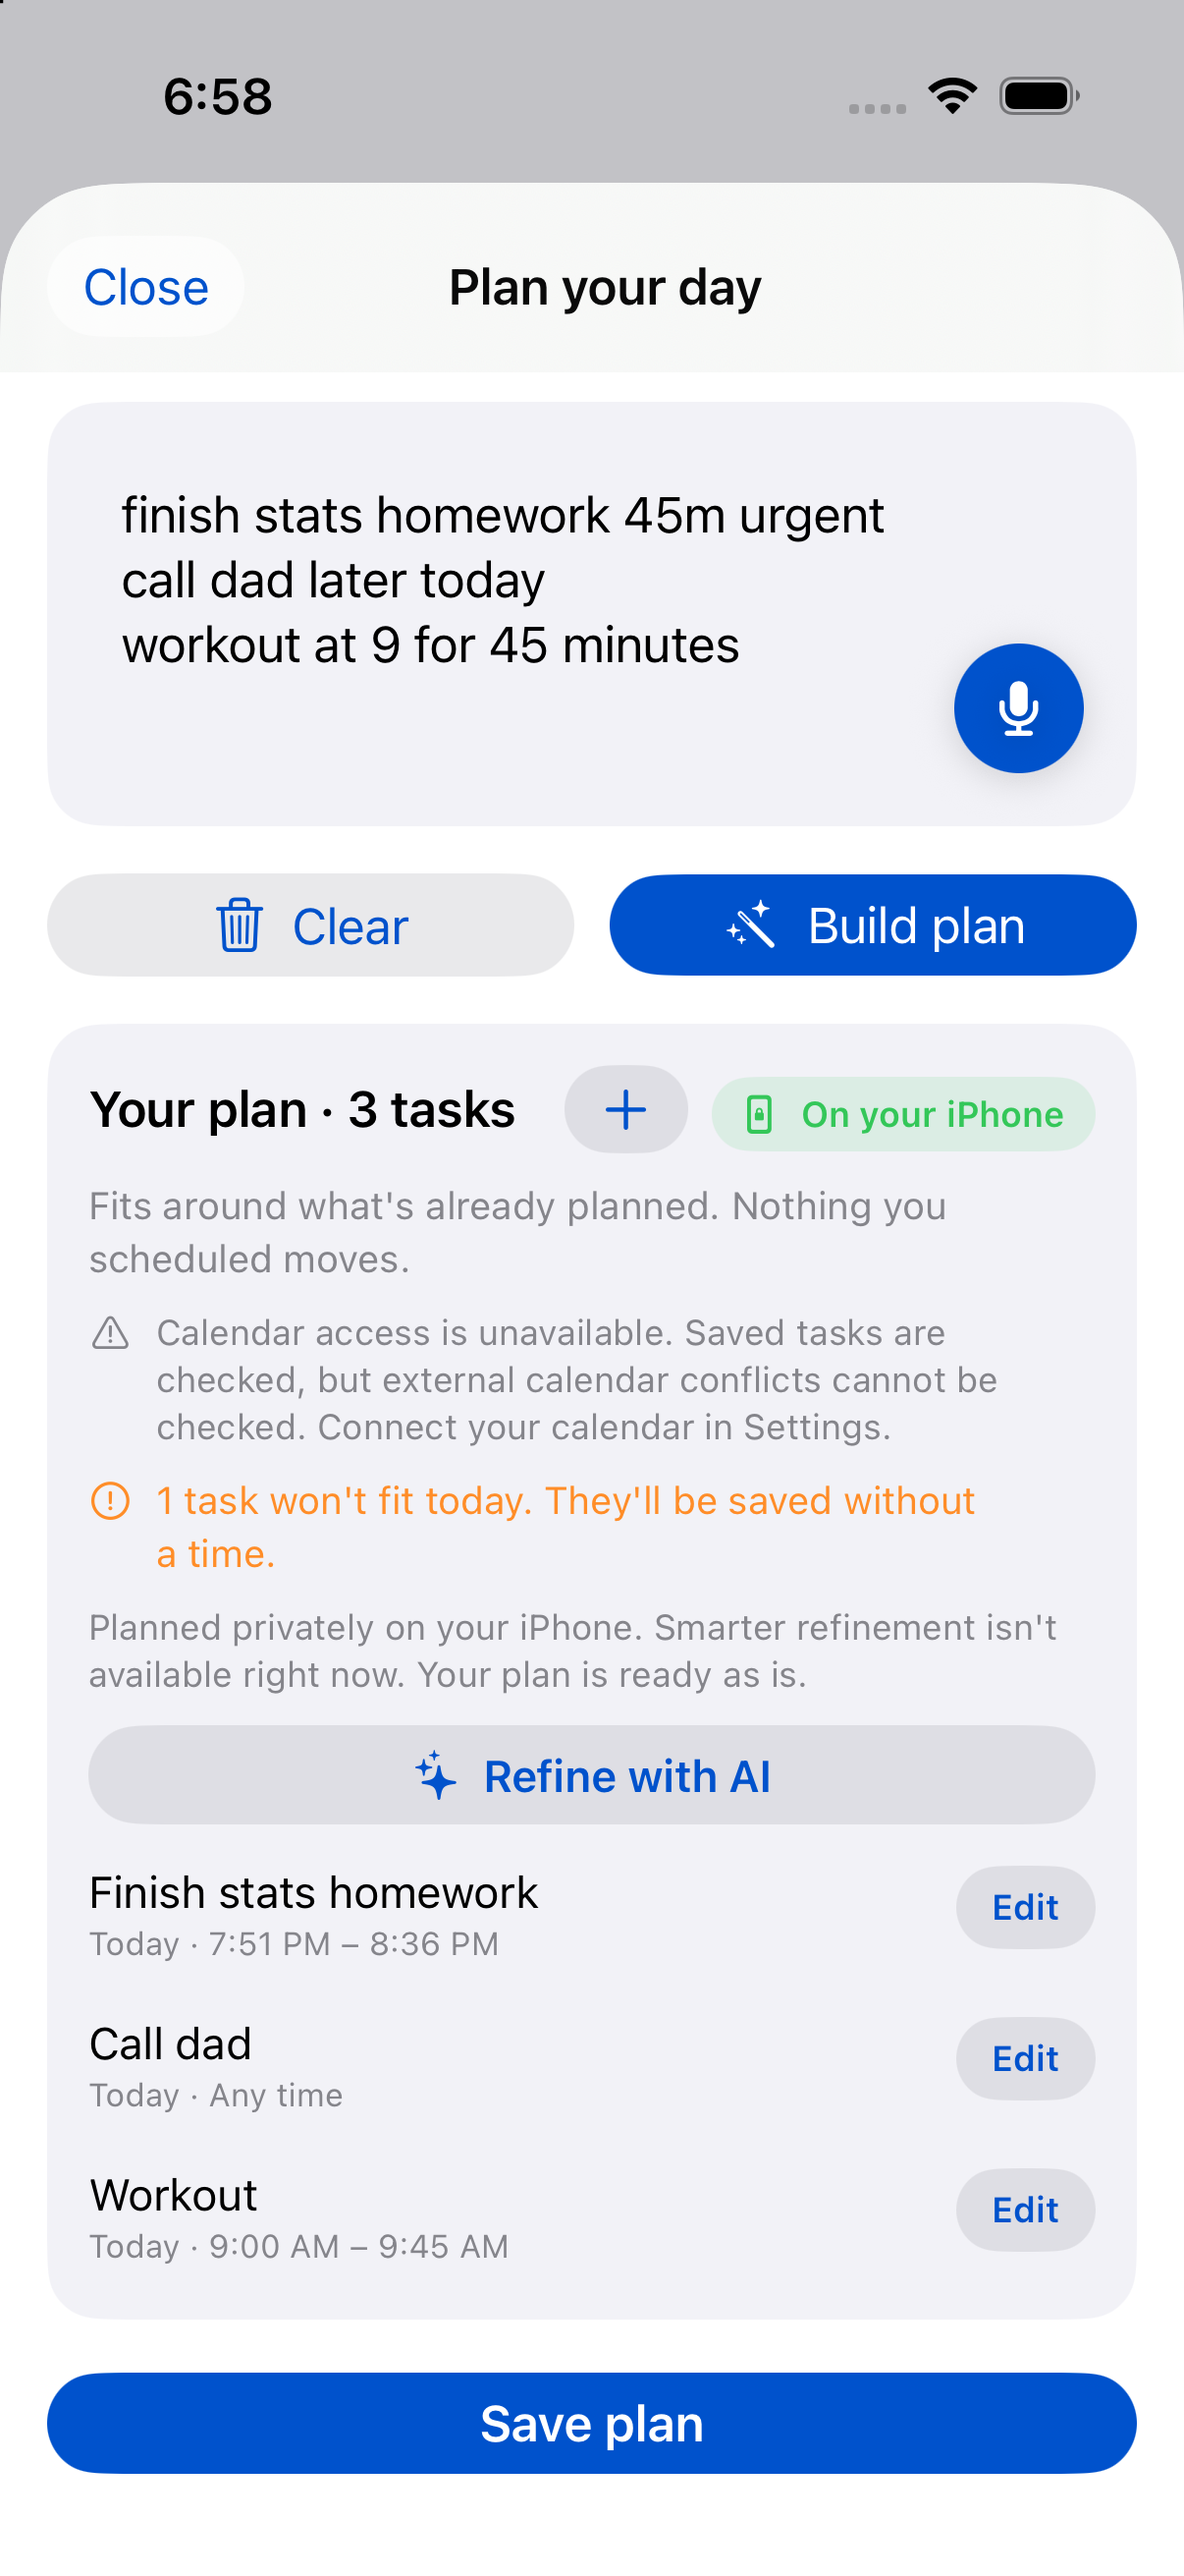
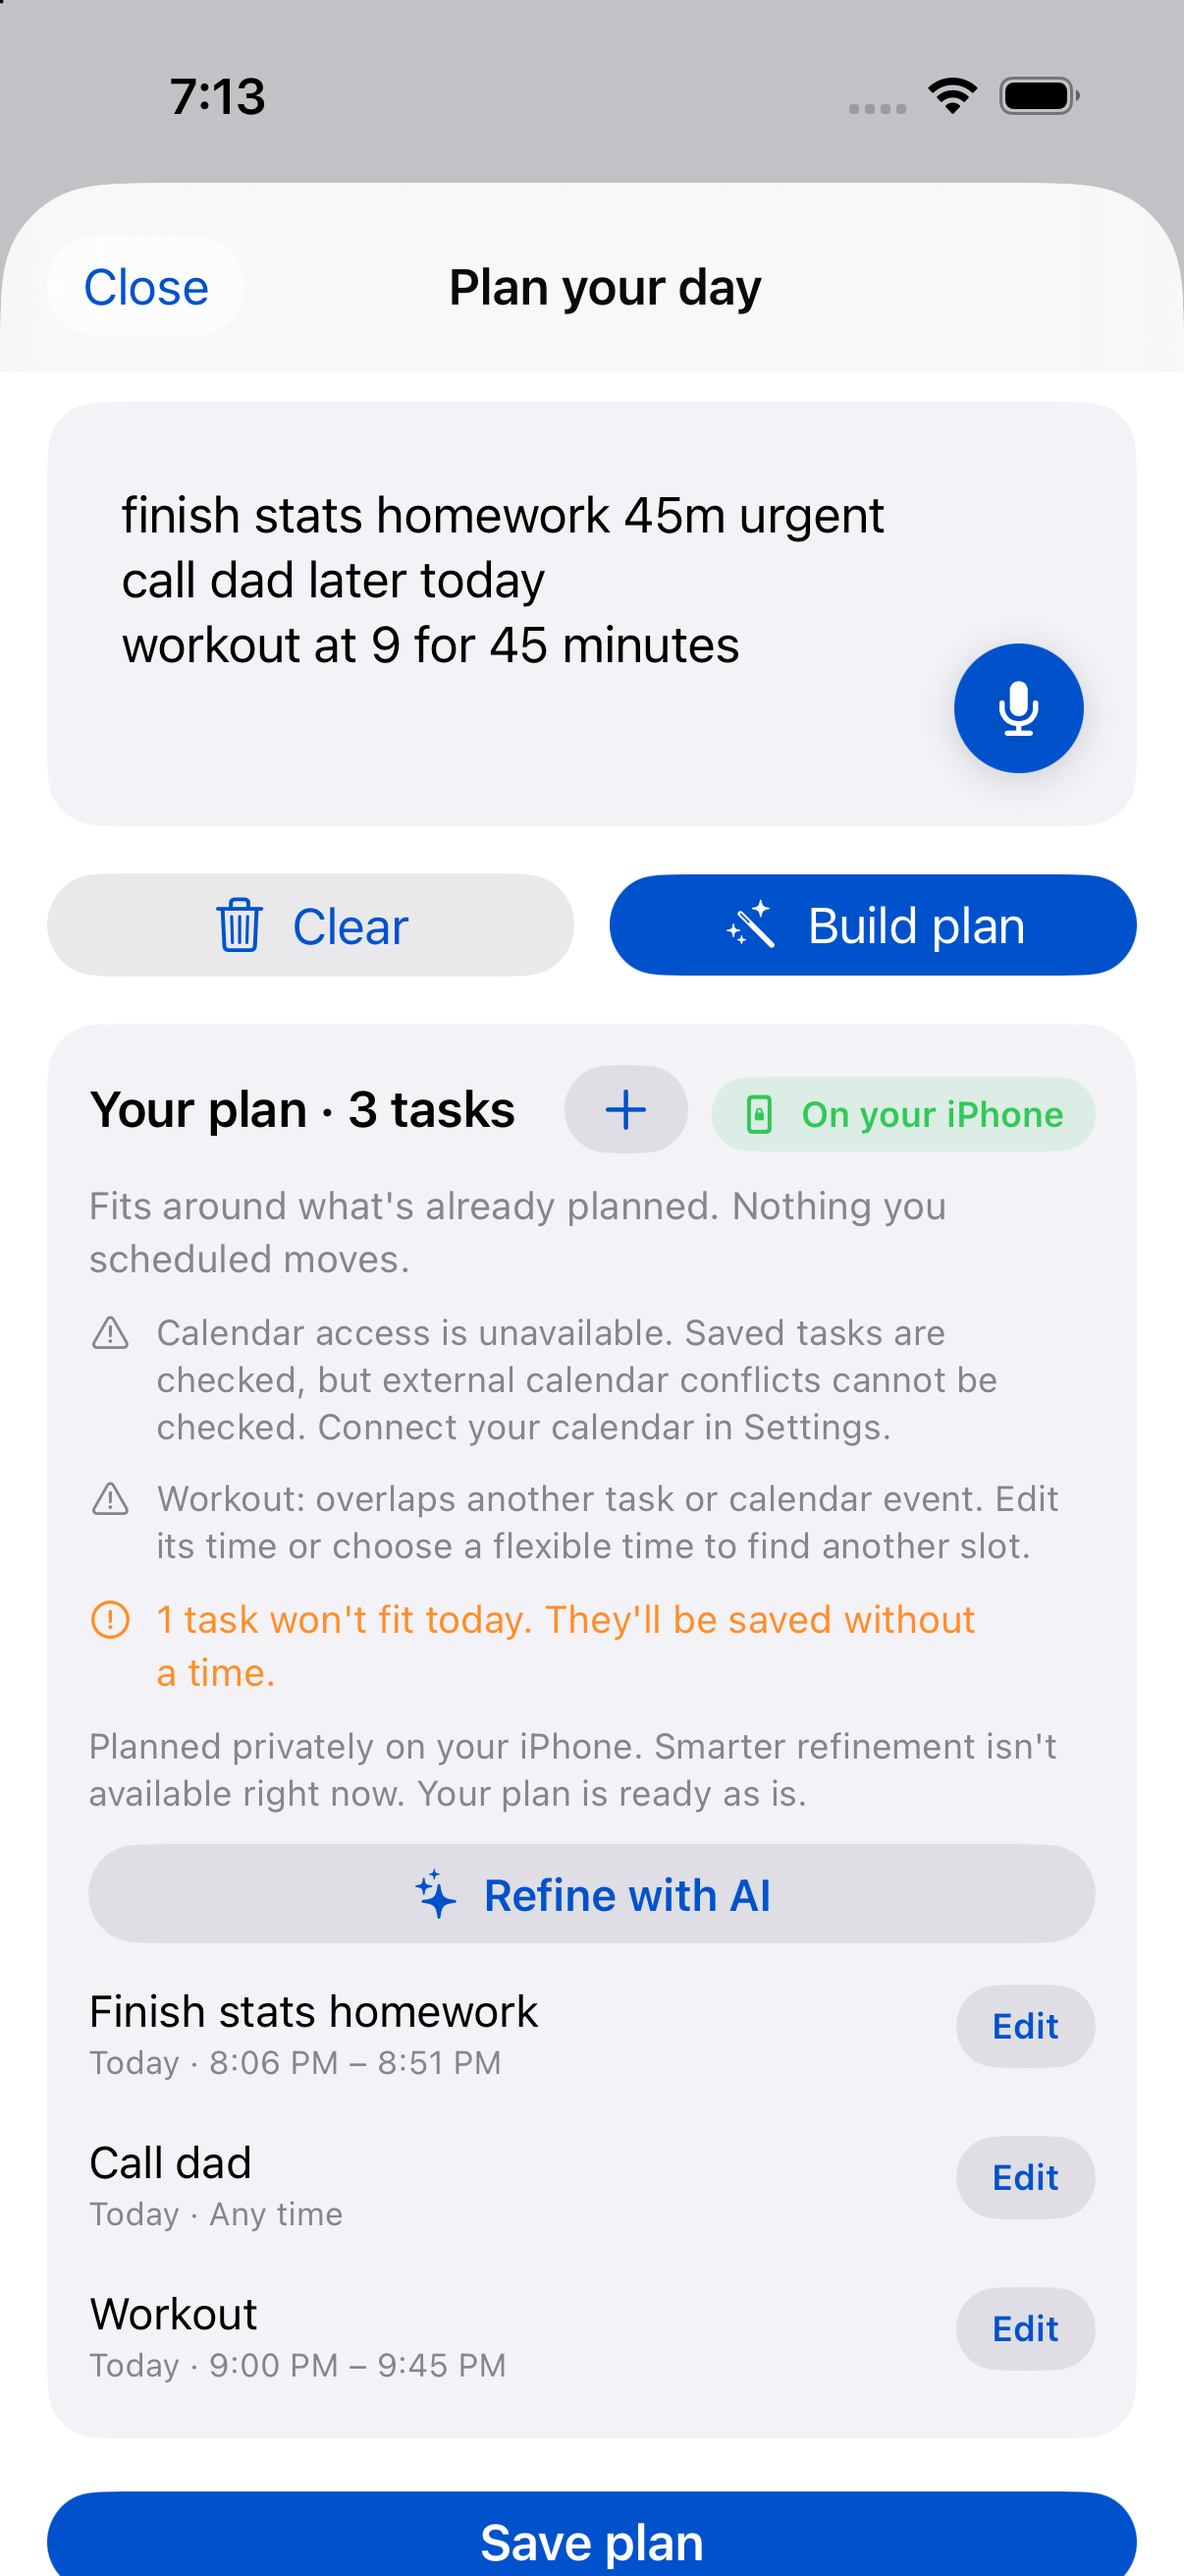
fix: bare hours like "at 9" no longer land in the past
With several tasks in one dump, resolveHour picked AM/PM without knowing
the time, so "workout at 9" typed at 7 PM became 9 AM, already past.
When nothing in the text says morning or evening and the task is for
today, it now picks the next upcoming occurrence. Explicit am/pm, time
of day words, other days, and the single-task ambiguity guard are
unchanged.

diff --git a/SchedAI/OfflineNLP.swift b/SchedAI/OfflineNLP.swift
@@ -624,7 +624,9 @@ struct OfflineNLP {
                 ampm: ap,
                 context: working,
                 previousTaskStart: previousTaskStart,
-                globalContext: globalContext
+                globalContext: globalContext,
+                referenceDate: referenceDate,
+                baseDay: baseDay
             )
             start = buildDate(hour24: hour24, minute: m)
             explicitTime = true
@@ -636,7 +638,9 @@ struct OfflineNLP {
                 ampm: nil,
                 context: working,
                 previousTaskStart: previousTaskStart,
-                globalContext: globalContext
+                globalContext: globalContext,
+                referenceDate: referenceDate,
+                baseDay: baseDay
             )
             start = buildDate(hour24: hour24, minute: m)
             explicitTime = true
@@ -659,7 +663,9 @@ struct OfflineNLP {
                 ampm: ap,
                 context: working,
                 previousTaskStart: previousTaskStart,
-                globalContext: globalContext
+                globalContext: globalContext,
+                referenceDate: referenceDate,
+                baseDay: baseDay
             )
             start = buildDate(hour24: hour24, minute: m)
             explicitTime = true
@@ -673,7 +679,9 @@ struct OfflineNLP {
                 ampm: ap,
                 context: working,
                 previousTaskStart: previousTaskStart,
-                globalContext: globalContext
+                globalContext: globalContext,
+                referenceDate: referenceDate,
+                baseDay: baseDay
             )
             start = buildDate(hour24: hour24, minute: m)
             explicitTime = true
@@ -724,7 +732,9 @@ struct OfflineNLP {
         ampm: String?,
         context: String,
         previousTaskStart: Date?,
-        globalContext: String
+        globalContext: String,
+        referenceDate: Date? = nil,
+        baseDay: Date? = nil
     ) -> Int {
         guard (0...23).contains(rawHour) else { return 0 }
         if rawHour == 0 { return 0 }
@@ -803,6 +813,18 @@ struct OfflineNLP {
         ]
         if hour <= 8, likelyPmWords.contains(where: local.contains) {
             return hour + 12
+        }
+
+        // Nothing in the text says morning or evening. For a task today, a bare
+        // "at 9" typed at 7 PM means 9 PM, not a 9 AM that has already passed.
+        if let referenceDate, let baseDay, (1...11).contains(hour) {
+            let cal = Calendar.current
+            if cal.isDate(baseDay, inSameDayAs: referenceDate),
+               let morning = cal.date(bySettingHour: hour, minute: minute, second: 0, of: baseDay),
+               let evening = cal.date(bySettingHour: hour + 12, minute: minute, second: 0, of: baseDay),
+               morning < referenceDate, evening > referenceDate {
+                return hour + 12
+            }
         }
 
         return hour

diff --git a/SchedAITests/AmbiguousHourTests.swift b/SchedAITests/AmbiguousHourTests.swift
@@ -1,0 +1,54 @@
+import Testing
+import Foundation
+@testable import SchedAI
+
+/// A bare hour ("at 9") with no am/pm and no time-of-day words should land on
+/// the next sensible occurrence, not one that has already passed today.
+struct AmbiguousHourTests {
+    private let cal = Calendar.current
+
+    private func at(_ hour: Int, _ minute: Int = 0) -> Date {
+        var c = DateComponents()
+        c.year = 2030; c.month = 3; c.day = 4; c.hour = hour; c.minute = minute
+        return cal.date(from: c)!
+    }
+
+    // A lone ambiguous hour ("workout at 9" by itself) is deliberately left
+    // untimed by the parser. The bug showed up when it came with other tasks.
+    private let dump = "finish stats homework 45m urgent\ncall dad later today\nworkout at 9 for 45 minutes"
+
+    private func workoutStart(_ text: String, now: Date) -> Date? {
+        OfflineNLP.parseSafely(text, now: now).first { $0.title.lowercased().contains("workout") }?.scheduledStart
+    }
+
+    @Test func eveningBareHourMeansTonight() {
+        // The reported bug: typed at 6:54 PM, "at 9" was placed at 9:00 AM (already past).
+        let start = workoutStart(dump, now: at(18, 54))
+        #expect(start.map { cal.component(.hour, from: $0) } == 21)
+        #expect(start.map { cal.isDate($0, inSameDayAs: at(9)) } == true)
+    }
+
+    @Test func morningBareHourStaysMorning() {
+        let start = workoutStart("call dad\nworkout at 9 for 45 minutes", now: at(7, 0))
+        #expect(start.map { cal.component(.hour, from: $0) } == 9)
+    }
+
+    @Test func middayBareHourMovesToEvening() {
+        let start = workoutStart("call dad\nworkout at 10", now: at(12, 30))
+        #expect(start.map { cal.component(.hour, from: $0) } == 22)
+    }
+
+    @Test func explicitMeridiemIsNeverChanged() {
+        #expect(workoutStart("call dad\nworkout at 9am", now: at(18, 54)).map { cal.component(.hour, from: $0) } == 9)
+        #expect(workoutStart("call dad\nworkout at 9 pm", now: at(7, 0)).map { cal.component(.hour, from: $0) } == 21)
+    }
+
+    @Test func morningWordsStillWin() {
+        #expect(workoutStart("call dad\nworkout at 8 in the morning", now: at(18, 0)).map { cal.component(.hour, from: $0) } == 8)
+    }
+
+    @Test func tomorrowIsNotShifted() {
+        let start = workoutStart("call dad\nworkout tomorrow at 9", now: at(18, 54))
+        #expect(start.map { cal.component(.hour, from: $0) } == 9)
+    }
+}
